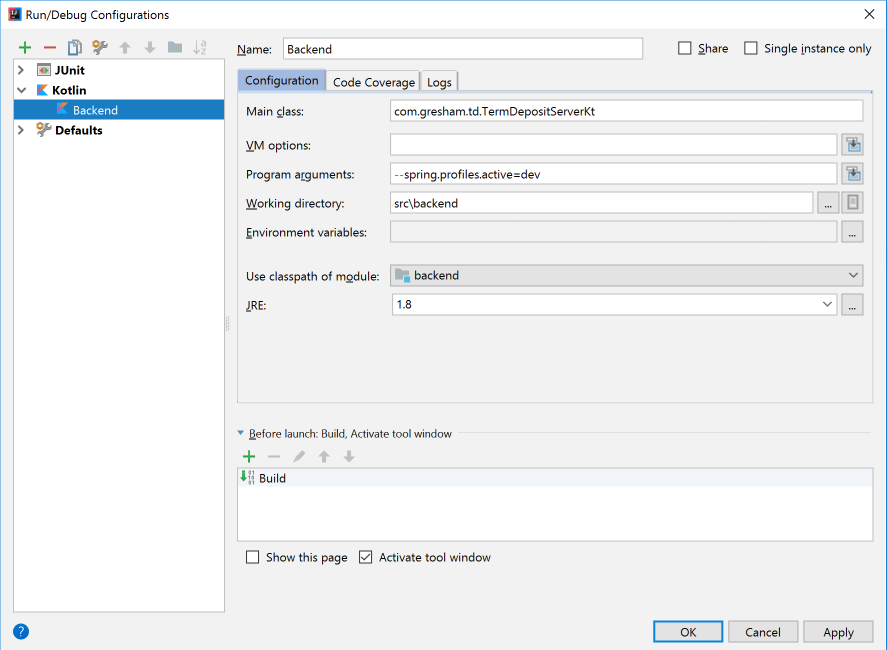
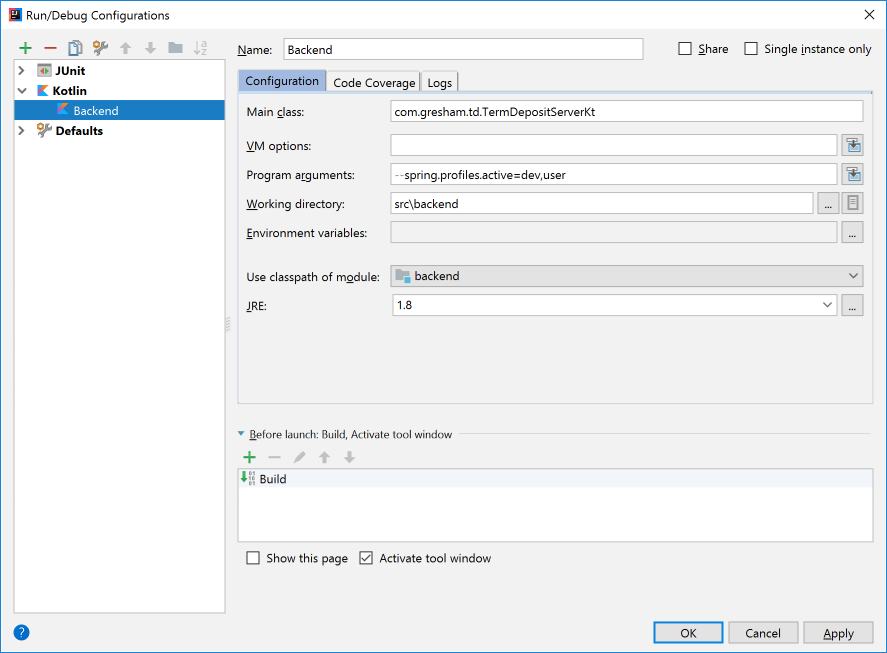
detailed run config in README

diff --git a/README.md b/README.md
@@ -40,8 +40,14 @@ curl -H "Content-Type: application/json" -X POST http://localhost:8090/users/ini
 ## Running the TD server in dev mode
 ### Back End
 
-In IntelliJ, create a run configuration of type Kotlin:
+In IntelliJ, create a run configuration of type Kotlin (`Run/Edit Configurations...` menu):
 ![RunConfiguration](kotlin.png)
+
+```
+Main class: com.gresham.td.TermDepositServerKt
+Program arguments: --spring.profiles.active=dev,user
+Working directory: src\backend
+```
 
 Run this configuration.
 
